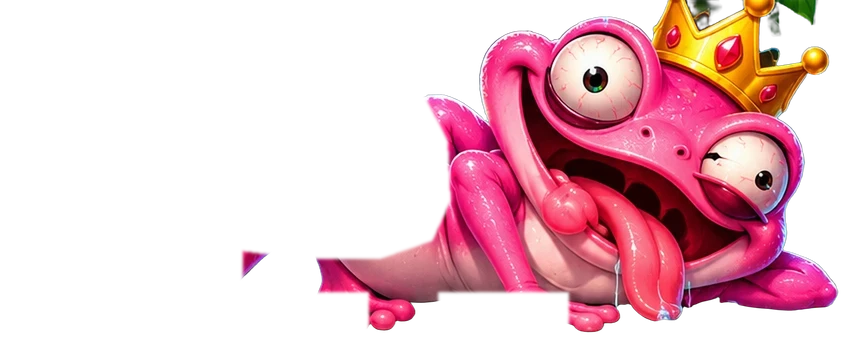
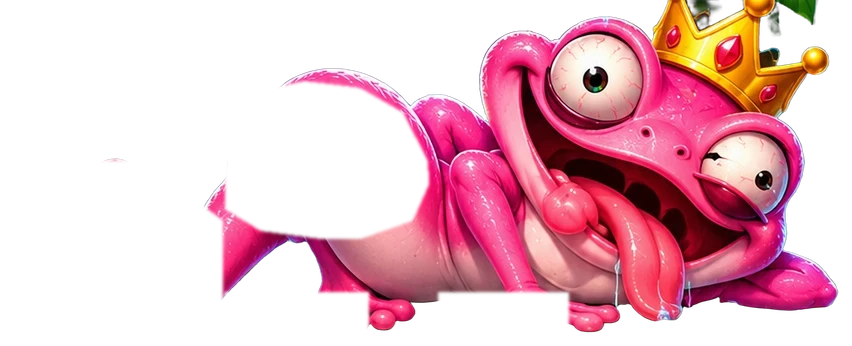
Perereca: fecha a fresta do bumbum ao rebolar
O rump e a leg_back eram recortados com linhas retas: ao girar, o canto do
corte espetava pra fora da silhueta e a emenda coxa/bumbum mostrava um risco.
Agora a borda do corte some aos poucos, o corpo guarda uma faixa parada por
cima dela e o bumbum cobre a coxa por 3px.

Changed region(s): [[0.2441, 0.2023, 0.5493, 0.8671]]

diff --git a/tools/perereca_assets.py b/tools/perereca_assets.py
@@ -102,10 +102,19 @@ paint_mask = np.zeros(bgimg.shape[:2], np.uint8)
 for name, g in LEGS.items():
     poly = lambda pts: np.array([(x - 60, y - 360) for x, y in pts], np.int32)
     m = np.zeros(full.shape[:2], np.uint8); cv2.fillPoly(m, [poly(g['cut'])], 255)
-    if name == 'rump': cv2.fillPoly(m, [poly(LEGS['leg_back']['cut'])], 0)  # a coxa é só da perna (senão sobra um pedaço quando ela chuta)
+    # bumbum e perna de trás rebolam: a borda do corte some aos poucos (senão o canto reto espeta pra fora
+    # da silhueta ao girar) e o corpo guarda uma faixa parada por cima dessa borda (hole encolhido)
+    twerk = name in ('rump', 'leg_back')
+    if twerk:
+        soft = cv2.GaussianBlur(cv2.erode(m, np.ones((13, 13), np.uint8)), (0, 0), 5)
+        if name == 'leg_back': cv2.fillPoly(soft, [poly(LEGS['rump']['cut'])], 0); m = np.maximum(soft, m & cv2.fillPoly(np.zeros_like(m), [poly(LEGS['rump']['cut'])], 255))  # colada no bumbum fica dura: os dois giram juntos
+        else: m = soft
+    if name == 'rump':  # a coxa é só da perna (senão sobra um pedaço quando ela chuta); 3px de sobra por cima da perna pra não abrir risco na emenda
+        m[cv2.erode(cv2.fillPoly(np.zeros_like(m), [poly(LEGS['leg_back']['cut'])], 255), np.ones((7, 7), np.uint8)) > 0] = 0
     piece = full.copy(); piece[..., 3] = (piece[..., 3].astype(np.uint16) * m // 255).astype(np.uint8)
     Image.fromarray(piece, 'RGBA').save(D + name + '.webp', quality=90)
     h = np.zeros(full.shape[:2], np.uint8); cv2.fillPoly(h, [poly(g['hole'])], 255)
+    if twerk: h = cv2.erode(h, np.ones((41, 41), np.uint8))
     h = cv2.GaussianBlur(h, (0, 0), 1.5)
     body[..., 3] = (body[..., 3].astype(np.uint16) * (255 - h) // 255).astype(np.uint8)
     # a perna pintada no fundo também sai (senão aparece dobrada quando a peça mexe)
